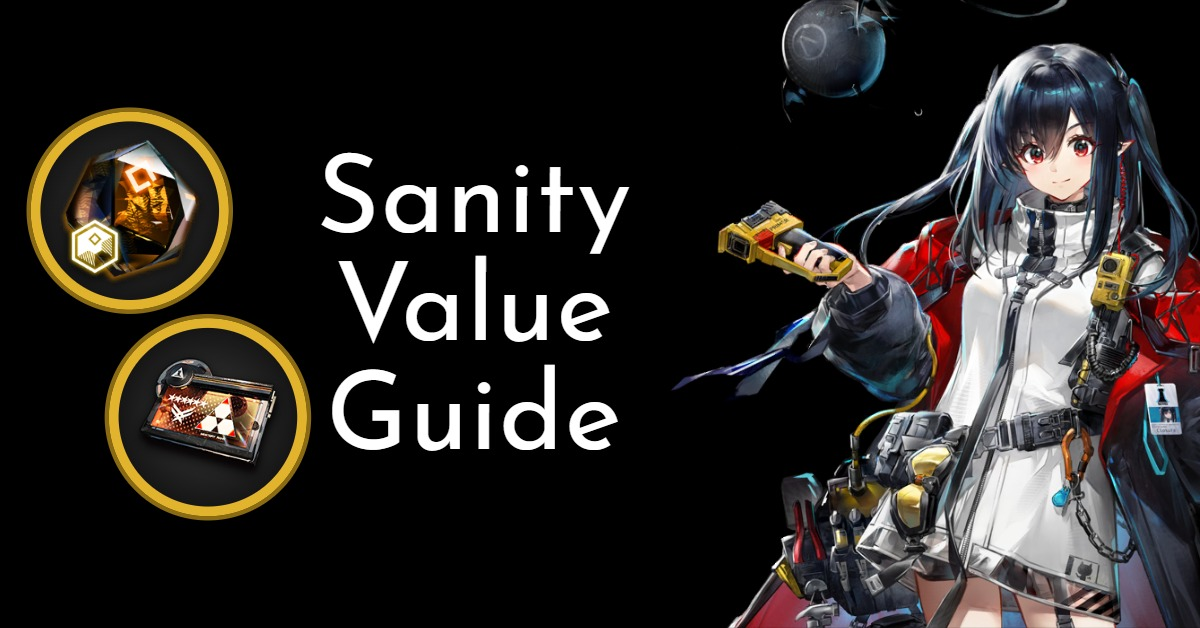
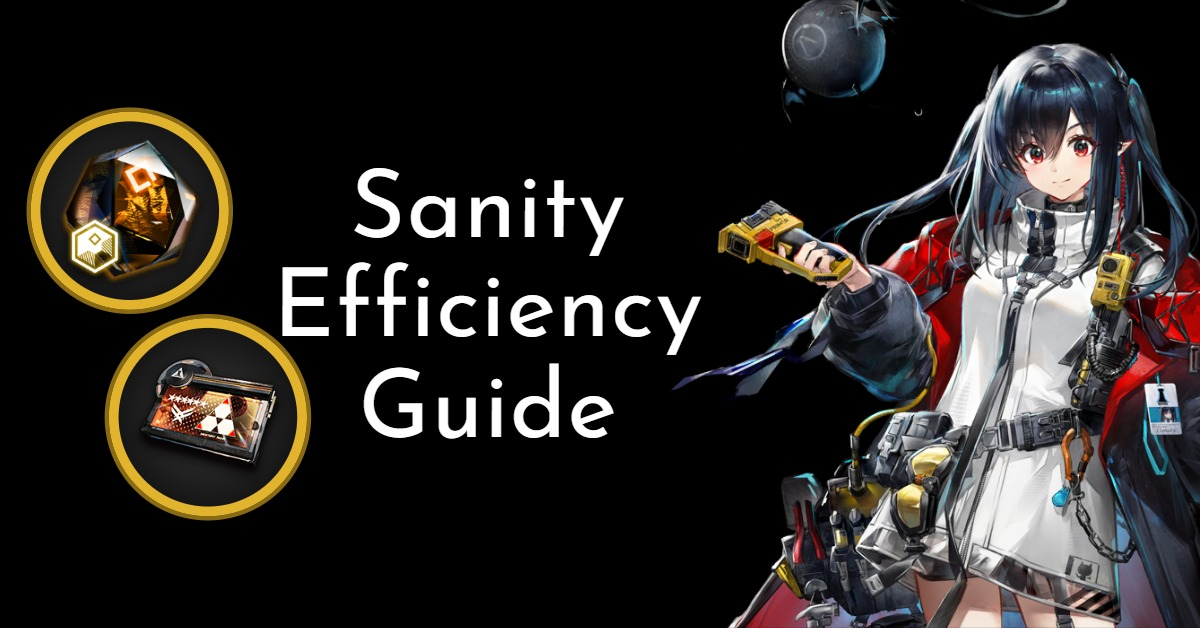
Wider publish of the sanity efficiency guide.

Changed region(s): [[0.2158, 0.242, 0.5858, 0.5748], [0.2775, 0.5748, 0.5242, 0.7261]]

diff --git a/CLAUDE.md b/CLAUDE.md
@@ -143,7 +143,7 @@ Non-obvious decisions, all deliberate:
 - **Modules: X, Y and Δ only** (`uniequip_table` `typeName2` `X`/`Y`/`D`; ISW/RA/SO are `A`/`B` and cost only blocks). Assigned to operators via `charEquip`, not `charId` — the Amiya forms' modules all carry base Amiya's `charId`. Cost = all three phases: material + Module Data Blocks (yituliu's value; time-gated, which matters for packs) + LMD; Data Supplements are listed in `value_rules.yaml` → `modules.not_counted`. Shown on the full list and stats page only — no shop pack covers modules, so the recent page leaves them out.
 - **Recipe tables are split:** most crafting is in `building_data` → `workshopFormulas`, but dualchips are made in the Factory (`manufactFormulas`). Newer Tier 3 materials (Grindstone, Aggregate Cyclicene, …) have no recipe at all — they're farm-only and appear only as ingredients.
 - **Shop packs** (`tools/build_pack_values.py`, run by `build_item_values.py` after the item values, since it uses the `packs` profile; its docstring documents `pack_values.json`). Event packs come from `processed/shop_packs.json` in the assets repo (built monthly from three sources: yituliu's pack API for contents, prts.wiki as a second source — stale since Oct 2026 — and CN game data, which fills in packs neither lists by copying an earlier same-name pack's contents; each pack records `contentsSource`, and copied or disputed contents land in the `attention` list; packs are only ever added). Each pack's **goodId is shared by CN and EN**, which is how EN names, sale windows and real USD prices (cents) are found in EN `shop_client_table.json` — the scrape's `enName` is only a fallback, then its `mtlName` (a Claude API machine translation made once per pack by the scraper, needs the assets repo's `ANTHROPIC_API_KEY` Actions secret; shown with an "(MTL)" tag). A rerun pack reuses its original goodId, so its EN window = the earliest one starting no earlier than the CN start (older windows belong to earlier runs). A pack's own sale window often outlasts its event; live/ended is decided at display time, never in the generator. Price precedence: override → EN data → price map (`estimated` entries flagged) → none. Valued with the sheet's maths (in `packs.yaml`); the **colour cutoffs are derived**, not typed, from `op_packs` (skipping those marked `threshold: false`: $1, $5): green = the worst-value double pack, yellow = the best-value pack without the double; Kernel pulls count 0; selectors and α/β/γ "one of three" vouchers aren't valued (note only). **Ticket values in the packs profile drop the cheapest quarter** (`value_rules.yaml` → `tickets_exclude_bottom_quartile`). The cost pages' ticket table (`efficiency-tickets`) shows these same packs-profile values, so the pages agree; the plain averages (`operator_values → averages`) are still generated but not shown. The `attention` list (bot commit message + `pack_values.json`) is where weak spots surface: goodIds matched by price only (`goodIdMatchedBy: "price"` from the scraper), live packs without an EN price or name, missing item values, shown events with no EN name (add to `packs.yaml` → `event_names`). Copied contents are not listed for chip packs (regular and predictable).
-- **Shop packs page** (`content/guides/shop-packs/`, semi-hidden like the others): shortcodes `efficiency-packs` (used as `{{% %}}`: one `### Event` heading per event, under the page's `## Events`, same no-blank-lines rule as `efficiency-recent`), `-packs-table section="regular|starter|common"`, `-packs-op`, `-packs-key` (colour legend), `-packs-notes` (the numbered notes, Markdown; `upcoming` is linked once per not-yet-on-EN event, from its date line); partials in `layouts/partials/ica/efficiency/packs/`. Each pack is its own `<tbody>` (numbers row + a full-width contents row — ten columns didn't fit). Live/ended is decided at build time (`now`) **and again in the browser** (`efficiency.js`, "Shop packs") from each pack's EN window: ended packs, then empty events and their TOC entries (both Blowfish TOCs; the anchor id is on a `div` inside the heading), disappear without a rebuild. Hidden (cosmetic) packs never render. Within an event, packs are ordered by group (`packs.yaml` → `pack_groups`, assigned from contents by `pack_group()` in the generator, overridable per pack), then price. Notes are numbered in `packs.yaml` order — `pack_values.json` lists them as an array because Hugo sorts map keys.
+- **Shop packs page** (`content/guides/shop-packs/`): shortcodes `efficiency-packs` (used as `{{% %}}`: one `### Event` heading per event, under the page's `## Events`, same no-blank-lines rule as `efficiency-recent`), `-packs-table section="regular|starter|common"`, `-packs-op`, `-packs-key` (colour legend), `-packs-notes` (the numbered notes, Markdown; `upcoming` is linked once per not-yet-on-EN event, from its date line); partials in `layouts/partials/ica/efficiency/packs/`. Each pack is its own `<tbody>` (numbers row + a full-width contents row — ten columns didn't fit). Live/ended is decided at build time (`now`) **and again in the browser** (`efficiency.js`, "Shop packs") from each pack's EN window: ended packs, then empty events and their TOC entries (both Blowfish TOCs; the anchor id is on a `div` inside the heading), disappear without a rebuild. Hidden (cosmetic) packs never render. Within an event, packs are ordered by group (`packs.yaml` → `pack_groups`, assigned from contents by `pack_group()` in the generator, overridable per pack), then price. Notes are numbered in `packs.yaml` order — `pack_values.json` lists them as an array because Hugo sorts map keys.
 - **Reader-facing text in `packs.yaml`** (`notes:`, pack `text:`, common-pack names) is the maintainer's to write — don't edit it.
 - **Recent operators** come from `release_log.csv` (assets repo), grouped by `cn_patch` (a patch's start date, so older patches can be backfilled without renumbering). A recent-operator group may be empty — 4★s are rare — and pages should then omit it.
 
@@ -158,9 +158,7 @@ Shortcodes `efficiency-era`, `-roster`, `-recent`, `-recent-key`, `-tickets` (co
 - **Operator names link to their write-up** (`ica/efficiency/write-ups.html`): class page, else `mostrecent.md`, else `lookahead.md`, else no link. Lookahead entries have no id, so their `#### Name` is resolved through `ica/resolve-operator.html`; an unresolved name silently gets no link. Only this partial looks past the class pages — `ica/mastery-anchors.html` (shared with the selector guide) must keep skipping both.
 - **The full list scrolls in its own box** (`.eff-table-wrap--frozen`, 75vh) so its header row can stay pinned: a sticky header only sticks inside its nearest scrolling box, and that box must scroll sideways on phones anyway. Because of that, a link to a row (`#op-…`, used by search and the Mastery tables' "Costs" links) is re-positioned by `showLinkedRow()` in the script — the browser alone puts the box under the site's fixed header.
 - **`.eff-table` sets `display: table`** to undo the theme's `display: block` on tables, which stopped rows filling the width.
-- **Semi-hidden release:** all four pages currently have `[build] list = 'never'` and no `topic`/menu entry — reachable by URL only, absent from search, sitemap, tag pages, RSS, menu, homepage and the Mastery tables. For the wide release: delete the `[build]` block and uncomment `topic` (menu entries were removed and need re-adding in front matter, as on the selector page).
-- **`efficiency-recent` is used with `{{% %}}`, not `{{< >}}`**: it emits each rarity's title as a Markdown `## 6★` heading so the TOC picks it up (and an empty rarity leaves no heading). Its HTML must stay free of blank lines, or Markdown would start treating the indented markup as a code block.
-- **One publish switch per page**: `draft`. Menu entries live in each page's front matter, as with the selector guide.
+- **One publish switch per page**: `draft`. Menu entries live in each page's front matter (parent `Efficiency`, defined in `menus.en.toml`), as with the selector guide. `promotion-costs` and `shop-packs` carry `aliases` for the old homepage cards' URLs (`/other/ticketeff/`, `/other/paidpackslist/`), which pointed at the retired Google Sheet.
 - Rarities arrive from JSON as floats — wrap in `int` before `printf "%d"`.
 
 ## Local tooling quirks

diff --git a/content/guides/efficiency/index.md b/content/guides/efficiency/index.md
@@ -1,5 +1,5 @@
 +++
-title = "TacticalBreakfast's Sanity Value Guide"
+title = "TacticalBreakfast's Sanity Efficiency Guide"
 date = 2026-11-11T00:00:00-05:00
 draft = false
 summary = "How to read the Arknights sanity value pages: what shop pack values and E2/M3 promotion costs measure, how they're calculated, and which packs to buy first."
@@ -13,23 +13,17 @@ weight = 5
 # and the homepage card. "big" shows the whole image rather than a cropped strip.
 showHero = true
 heroStyle = "big"
-# Semi-hidden feedback release: published at its URL, but left out of search,
-# the sitemap and tag pages. For the wide release, delete this [build] block,
-# restore `topic` below, and uncomment the menu entry at the bottom.
-[build]
-  list = 'never'
 [params]
   author = 'TacticalBreakfast'
-  # topic = 'Other Content'   # restore for the wide release: lists the page on the homepage
+  topic = 'Other Content'   # lists the page on the homepage
 showDate = false
 showAuthor = false
 
-# Menu entry for the wide release. It lives here (not in menus.en.toml) so a
-# draft page leaves no dead link. Parent and weight still to be decided.
-# [menus.main]
-#   name = 'Intro - README'
-#   parent = '…'
-#   weight = …
+# Menu entry lives here (not in menus.en.toml) so a draft page leaves no dead link.
+[menus.main]
+  name = 'Intro - README'
+  parent = 'Efficiency'
+  weight = 5
 +++
 
 ## Introduction - What is this?

diff --git a/content/guides/promotion-costs/index.md b/content/guides/promotion-costs/index.md
@@ -11,17 +11,19 @@ weight = 6
 # Marks this page as the full roster: the search index adds an entry per
 # operator here (layouts/_default/index.json). Only one page should set it.
 efficiencyRoster = true
-# Semi-hidden feedback release: published at its URL, but left out of search,
-# the sitemap and tag pages (and the Mastery tables' "Costs" links switch off).
-# For the wide release, delete this [build] block and restore `topic` below.
-[build]
-  list = 'never'
+# The old homepage card for the retired Google Sheet lived at this URL.
+aliases = ['/other/ticketeff/']
 [params]
   author = 'TacticalBreakfast'
-  # topic = 'Other Content'   # restore for the wide release: lists the page on the homepage
+  topic = 'Other Content'   # lists the page on the homepage
 showDate = false
 showAuthor = false
 
+# Menu entry lives here (not in menus.en.toml) so a draft page leaves no dead link.
+[menus.main]
+  name = 'Promotion & Mastery Costs'
+  parent = 'Efficiency'
+  weight = 6
 +++
 
 The total cost of promoting every 4★–6★ operator to E2, of taking each of

diff --git a/content/guides/recent-promotion-costs/index.md b/content/guides/recent-promotion-costs/index.md
@@ -7,17 +7,17 @@ tags = ['Arknights', 'Guide', 'Efficiency']
 excludeFromRSS = true
 # Must stay above [params]: in TOML, keys below a [table] header belong to that table.
 weight = 7
-# Semi-hidden feedback release: published at its URL, but left out of search,
-# the sitemap and tag pages (and the Mastery tables' "Costs" links switch off).
-# For the wide release, delete this [build] block and restore `topic` below.
-[build]
-  list = 'never'
 [params]
   author = 'TacticalBreakfast'
-  # topic = 'Other Content'   # restore for the wide release: lists the page on the homepage
+  topic = 'Other Content'   # lists the page on the homepage
 showDate = false
 showAuthor = false
 
+# Menu entry lives here (not in menus.en.toml) so a draft page leaves no dead link.
+[menus.main]
+  name = 'Recent Promotion & Mastery Costs'
+  parent = 'Efficiency'
+  weight = 7
 +++
 
 E2 and M3 costs of operators from the last ten CN patches, the ones paid

diff --git a/content/guides/shop-packs/index.md b/content/guides/shop-packs/index.md
@@ -6,16 +6,19 @@ summary = "Arknights shop pack value guide: dollars per Originite Prime and per 
 tags = ['Arknights', 'Guide', 'Efficiency']
 excludeFromRSS = true
 weight = 9
-# Semi-hidden feedback release: published at its URL, but left out of search,
-# the sitemap and tag pages. For the wide release, delete this [build] block
-# and restore `topic` below.
-[build]
-  list = 'never'
+# The old homepage card for the retired Google Sheet lived at this URL.
+aliases = ['/other/paidpackslist/']
 [params]
   author = 'TacticalBreakfast'
-  # topic = 'Other Content'   # restore for the wide release: lists the page on the homepage
+  topic = 'Other Content'   # lists the page on the homepage
 showDate = false
 showAuthor = false
+
+# Menu entry lives here (not in menus.en.toml) so a draft page leaves no dead link.
+[menus.main]
+  name = 'Paid Pack Values'
+  parent = 'Efficiency'
+  weight = 9
 +++
 
 ## Introduction

diff --git a/content/guides/promotion-stats/index.md b/content/guides/promotion-stats/index.md
@@ -6,16 +6,17 @@ summary = "Arknights promotion, mastery and module cost statistics for the whole
 tags = ['Arknights', 'Guide', 'Efficiency']
 excludeFromRSS = true
 weight = 8
-# Semi-hidden feedback release: published at its URL, but left out of search,
-# the sitemap and tag pages. For the wide release, delete this [build] block
-# and restore `topic` below.
-[build]
-  list = 'never'
 [params]
   author = 'TacticalBreakfast'
-  # topic = 'Other Content'   # restore for the wide release: lists the page on the homepage
+  topic = 'Other Content'   # lists the page on the homepage
 showDate = false
 showAuthor = false
+
+# Menu entry lives here (not in menus.en.toml) so a draft page leaves no dead link.
+[menus.main]
+  name = 'Promotion & Mastery Statistics'
+  parent = 'Efficiency'
+  weight = 8
 +++
 
 Statistics across every 4★–6★ operator, including those not yet on EN, using

diff --git a/content/_index.md b/content/_index.md
@@ -8,13 +8,15 @@ I now apparently have a Discord. A few other AK site admins and I got together t
 
 ## Most Recent Content
 
-New Guide - [Paid 6★ Selector Recommendations](guides/selector/)
-
 New Update - [Episode 17 - Critical Phase Transition](masteries/mostrecent)
 
 New Article - [Episode 17 - Critical Phase Transition](https://sanitygone.help/en/guides/mastery-ep17/)
 
 Tier List Update - [Episode 17 - Critical Phase Transition](https://docs.google.com/spreadsheets/d/1E7HmgKWiV8pKpJpvpVzziYxnaQTP01Vtw_PXEdL7XPA/)
+
+Updated - [Sanity Efficiency Guide](guides/efficiency) - New and updated efficiency guide. Replaces the old Sheets version.
+
+New Guide - [Paid 6★ Selector Recommendations](guides/selector/)
 
 Blog Post - [I Love April, but Not Orchid?](posts/iloveapril)
 

diff --git a/content/articles/sanityefficiency.md b/content/articles/sanityefficiency.md
@@ -1,0 +1,14 @@
++++
+title = "TacticalBreakfast's Sanity Efficiency Guide - Shop Packs and Promotion Costs"
+date = 2026-11-12T15:27:00-05:00
+weight = 7
+externalUrl = 'https://ironcarrotarchives.com/guides/efficiency/'
+summary = "New sanity efficiency pages replacing the old efficiency Google Sheet: Arknights shop pack values for current Global and upcoming CN packs, E2 promotion and M1–M3 mastery costs for every operator, and roster-wide cost statistics."
+layout = 'redirect'
+[params]
+  topic = 'Articles'
+excludeFromRecent = true
+showDate = false
+showAuthor = false
+featureimage = "img/sanity-efficiency-guide.jpg"
++++
